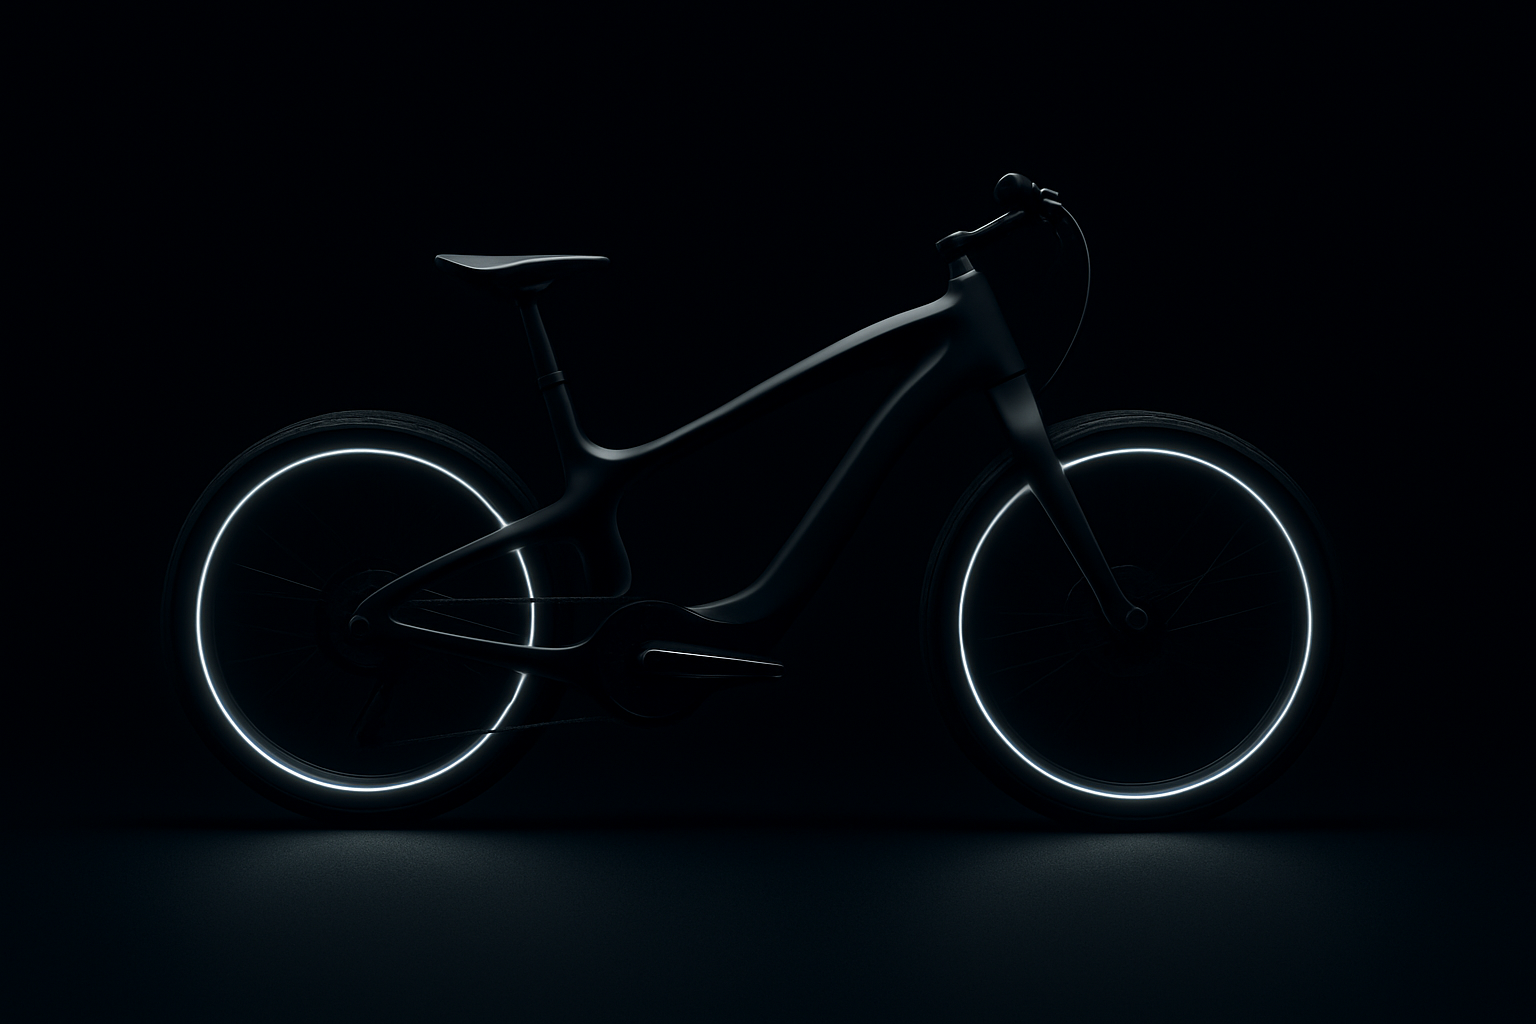
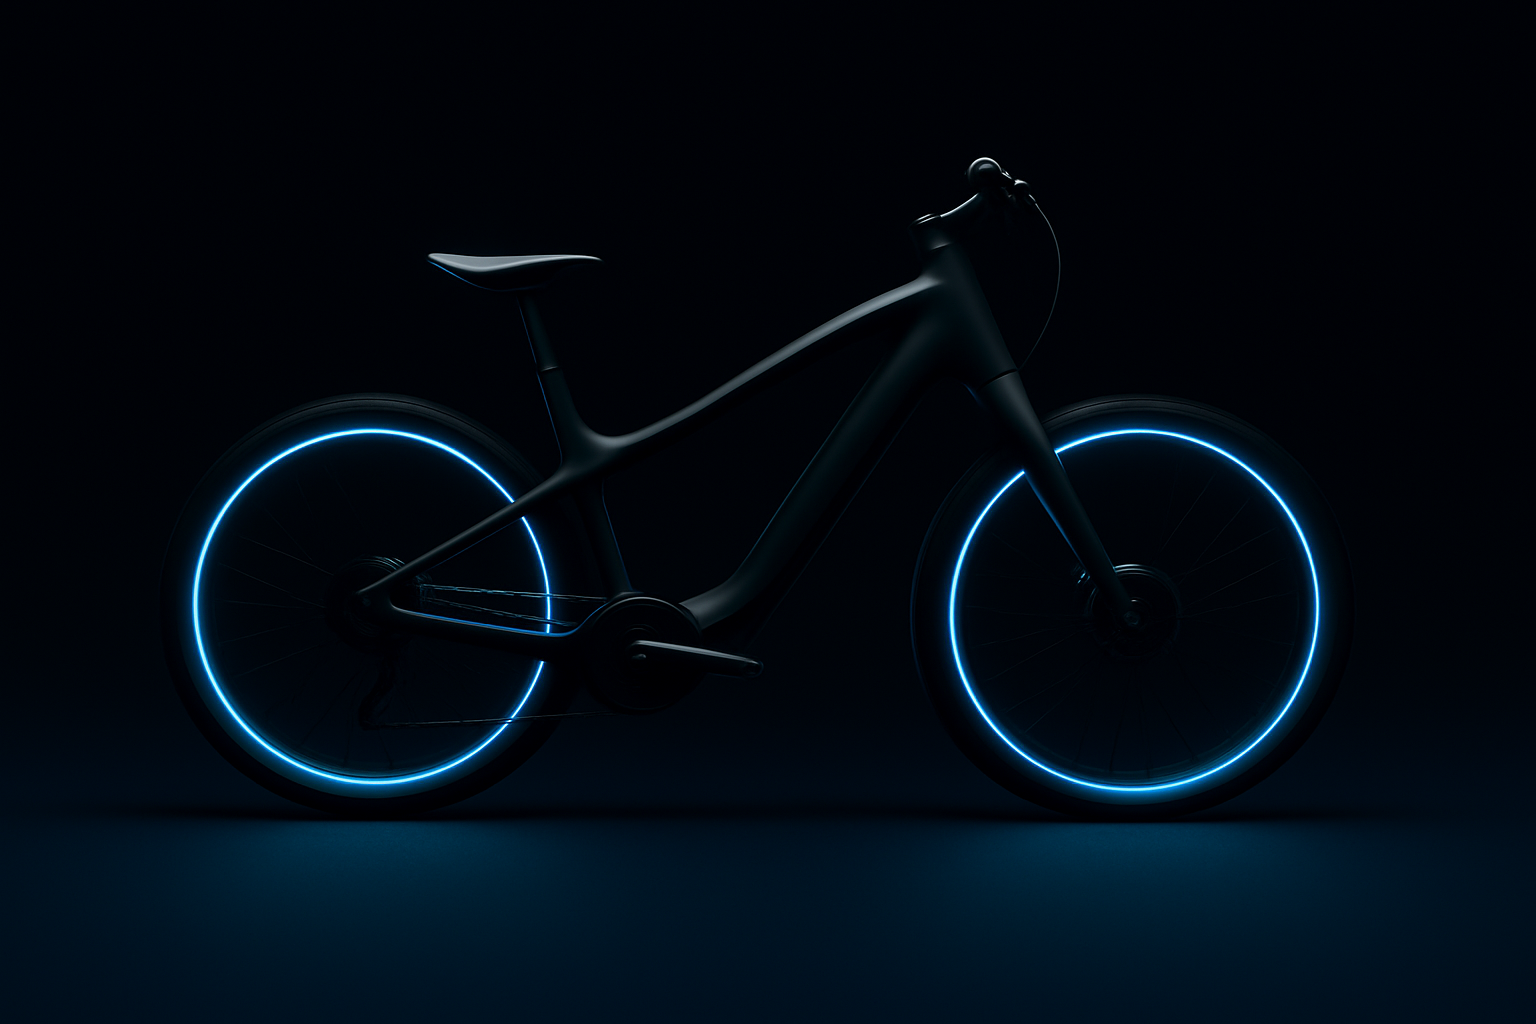
wip

diff --git a/index.html b/index.html
@@ -29,7 +29,7 @@
       <!-- Footer -->
       <footer>
         <div>
-          <span class="display-block margin-bottom underline">CONTACT</span>
+          <span class="display-block margin-bottom bold">CONTACT</span>
           <ul>
             <li><a href="tel:+15551234567">+1 (555) 123-4567</a></li>
             <li>
@@ -40,7 +40,7 @@
           </ul>
         </div>
         <div>
-          <span class="display-block margin-bottom underline">INFORMATION</span>
+          <span class="display-block margin-bottom bold">INFORMATION</span>
           <address>
             <ul>
               <li>Bicycles</li>
@@ -50,7 +50,7 @@
           </address>
         </div>
         <div>
-          <span class="display-block margin-bottom underline">SOCIAL</span>
+          <span class="display-block margin-bottom bold">SOCIAL</span>
           <ul class="footer__social-media">
             <li>
               <a href="#">

diff --git a/src/css/base/typography.css b/src/css/base/typography.css
@@ -1,5 +1,6 @@
 @import url("https://fonts.googleapis.com/css2?family=BBH+Sans+Bartle&display=swap");
 @import url('https://fonts.googleapis.com/css2?family=Arimo:ital,wght@0,400..700;1,400..700&display=swap');
+@import url('https://fonts.googleapis.com/css2?family=Orbitron:wght@400..900&display=swap');
 
 h1 {
   font-size: 2.5rem;
@@ -28,11 +29,12 @@ h5,
 h6 {
   line-height: 1;
   text-transform: uppercase;
-  color: #000;
+  color: var(--slate-6);
   text-shadow:
   2px 2px 10px var(--slate-5);
   font-family: "Gill Sans", "Gill Sans MT", Calibri, "Trebuchet MS", sans-serif;
-  font-family: Impact, Haettenschweiler, 'Arial Narrow Bold', sans-serif;
+  font-family: Orbitron, sans-serif;
+  font-weight: 900;
   -webkit-text-stroke: 1px var(--slate-5);
 }
 

diff --git a/src/css/pages/bike.css b/src/css/pages/bike.css
@@ -1,5 +1,5 @@
 :root {
-  --border-rider-a1: 2px solid #9cdfe8;
+  --border-thicker: 2px solid var(--slate-4);
   --padding-info-tech: 11px 17px 8px 15px;
 }
 
@@ -26,7 +26,7 @@
 }
 
 .bike__img {
-  border: var(--border);
+  border: var(--border-thicker);
   border-radius: var(--border-radius);
 }
 
@@ -37,14 +37,14 @@
   background: black;
   padding: var(--padding-info-tech);
   border-radius: var(--border-radius);
-  border: var(--border-rider-a1);
+  border: var(--border-thicker);
   margin-bottom: 20px;
 }
 
 .bike__tech-specs {
   background: black;
   padding: var(--padding-info-tech);
-  border: var(--border-rider-a1);
+  border: var(--border-thicker);
   border-radius: var(--border-radius);
 }
 

diff --git a/src/css/utils/borders.css b/src/css/utils/borders.css
@@ -1,7 +1,7 @@
 :root {
-  --border: 1px solid rgb(203, 203, 203);
+  --border: 1px solid var(--slate-6);
   --border-radius: 5px;
-  --box-shadow: 0 0 2px rgba(0, 0, 0, 0.342);
+  --box-shadow: 0 0 10px var(--slate-6);
   --img-border: 5px solid rgba(211, 211, 211, 0.233);
   --img-border: 5px solid grey;
 }

diff --git a/src/css/index.css b/src/css/index.css
@@ -91,7 +91,9 @@ footer {
   margin-top: 50px;
   padding: 20px;
   background-color: #242424;
-  box-shadow: 0 -3px 6px #242424, 0 3px 6px #18191f;
+  border: var(--border);
+  border-radius: var(--border-radius);
+  box-shadow: var(--box-shadow);
   text-align: center;
   color: var(--slate-4)
 }
